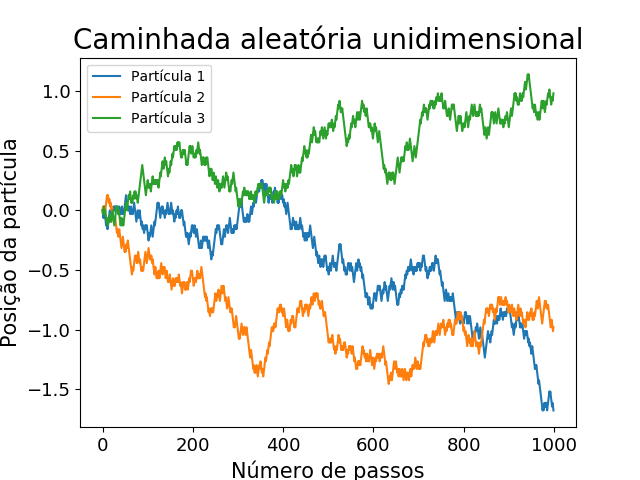
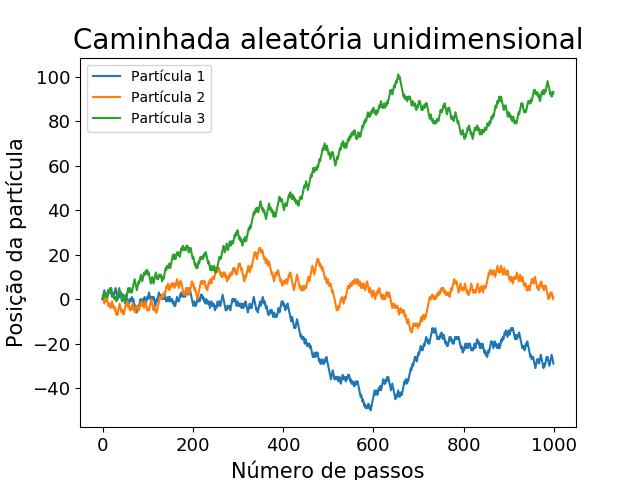
correcao caminhada aleatoria

diff --git a/Movimento Browniano/browniano.py b/Movimento Browniano/browniano.py
@@ -7,7 +7,7 @@ def caminhada_aleatoria(n_passos=1000):
     w = zeros(n_passos)
     for i in range(1,n_passos):
         yi = random.choice([1,-1])
-        w[i] = w[i-1]+(yi/sqrt(n_passos))
+        w[i] = w[i-1]+yi
     return w
 
 processo1 = caminhada_aleatoria()
